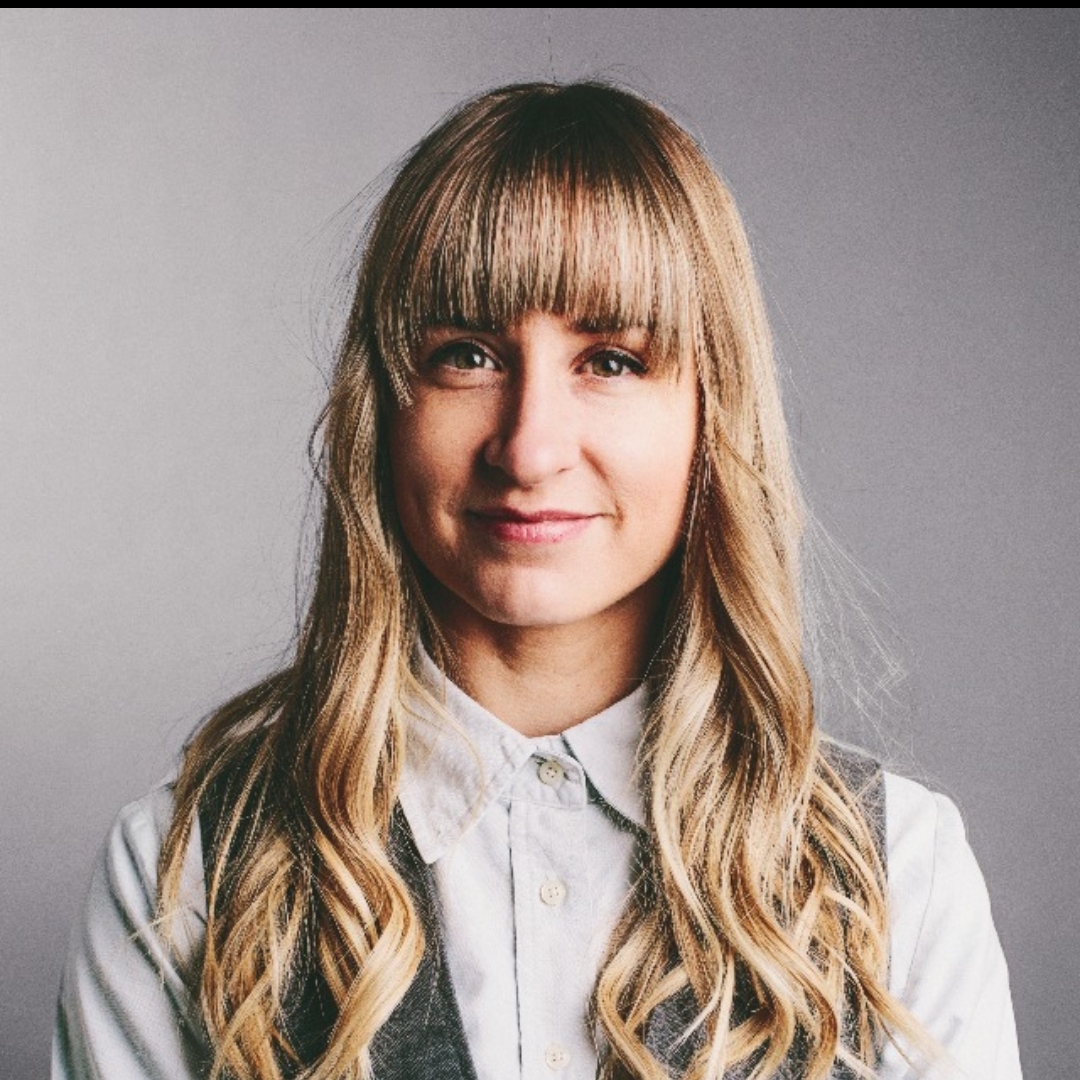
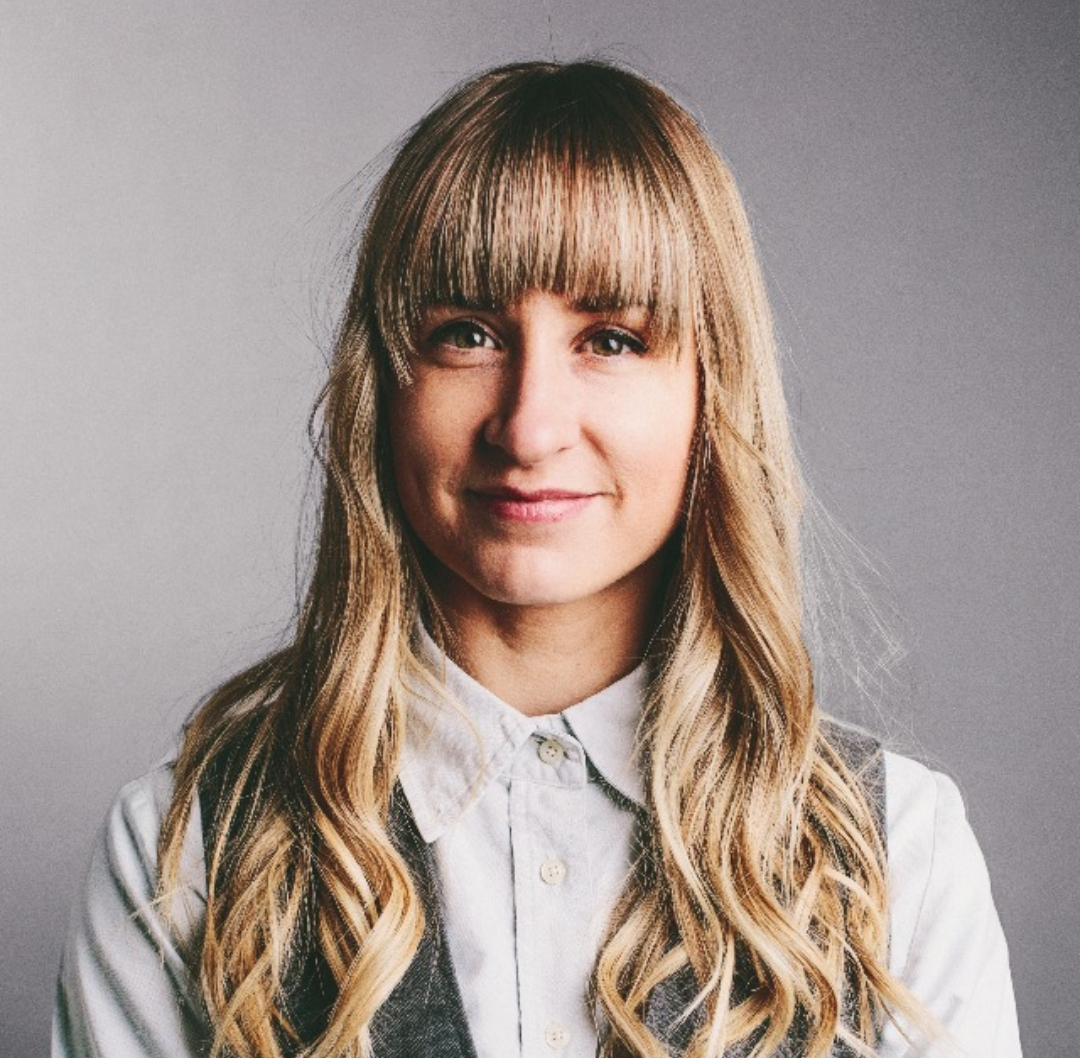
commit updated files

diff --git a/htmlFiles/mentor.html b/htmlFiles/mentor.html
@@ -70,7 +70,7 @@
   </div>
 </div>
       <p>
-        <button> <a href="#"> Contact</a></button>
+        <button> <a class="contact-btn" href="#"> Contact</a></button>
       </p>
     </div>
 
@@ -113,7 +113,7 @@
   </div>
 </div>
         <p>
-        <button> <a href="#"> Contact</a></button>
+        <button> <a class="contact-btn"  href="#"> Contact</a></button>
       </p>
     </div>
 
@@ -124,8 +124,8 @@
       <p>THE CODING GROUND</p>
       <div class="media-container"  style="margin: 24px 0;">
            <a href="#"><img class="media" src="../icons/linkedin-in-brands.svg" alt=""></a>
-        <a href="#"><img class="media" src="../icons/at-solid.svg" alt=""></a>
-        <a href="#"><img class="media" src="../icons/twitter-brands.svg" alt=""></i></a>
+        <a href="mailto: jason@thecodingground.com"><img class="media" src="../icons/at-solid.svg" alt=""></a>
+       
         
       </div>
       <br>
@@ -153,7 +153,7 @@
 </div>
       
      <p>
-        <button> <a href="#"> Contact</a></button>
+        <button> <a class="contact-btn"  href="#"> Contact</a></button>
       </p>
     </div>
 
@@ -164,8 +164,8 @@
       <p>THE CODING GROUND</p>
       <div class="media-container"  style="margin: 24px 0;">
             <a href="https://www.linkedin.com/in/moral-jera-8742a9188/"><img class="media" src="../icons/linkedin-in-brands.svg" alt=""></a>
-       <a href = "mailto: maral@thecodingground.com"><img class="media" src="../icons/at-solid.svg" alt=""></a>
-        <a href="#"><img class="media" src="../icons/twitter-brands.svg" alt=""></i></a>
+       <a href = "mailto: moral@thecodingground.com"><img class="media" src="../icons/at-solid.svg" alt=""></a>
+       
         
       </div>
       <br>
@@ -189,7 +189,7 @@
   </div>
 </div>
       <p>
-        <button> <a href="#"> Contact</a></button>
+        <button> <a class="contact-btn"  href="#"> Contact</a></button>
       </p>
     </div>
          <div class="card">
@@ -198,9 +198,9 @@
       <p class="title">MENTOR</p>
       <p>THE CODING GROUND</p>
       <div class="media-container"  style="margin: 24px 0;">
-            <a href="#"><img class="media" src="../icons/linkedin-in-brands.svg" alt=""></a>
+          
         <a href = "mailto: tanille@thecodingground.com"><img class="media" src="../icons/at-solid.svg" alt=""></a>
-        <a href=""><img class="media" src="../icons/twitter-brands.svg" alt=""></i></a>
+      
         
       </div>
       <br>
@@ -226,7 +226,7 @@
 </div>
 
 <p>
-  <button> <a href="#"> Contact</a></button>
+  <button> <a class="contact-btn"  href="#"> Contact</a></button>
 </p>
 </div>
 </div>

diff --git a/css/mentors.css b/css/mentors.css
@@ -2,8 +2,8 @@
 display: grid;
 grid-template-columns: 2fr 2fr 2fr;
 padding: 10rem;
-gap: 5rem
-
+gap: 5rem;
+padding-left: 3rem;
 
 }
 
@@ -19,7 +19,7 @@ gap: 5rem
 
 .title {
   color: grey;
-  font-size: 18px;
+  font-size: 20px;
 }
 
 button {
@@ -27,12 +27,12 @@ button {
   outline: 0;
   display: inline-block;
   padding: 8px;
-  color: white;
-  background-color: #000;
+  color:black;
+  background-color:#2a7e5f;
   text-align: center;
   cursor: pointer;
   width: 100%;
-  font-size: 18px;
+  font-size: 18x;
 }
 
 a {
@@ -40,13 +40,17 @@ a {
   font-size: 22px;
   color: black;
 }
+.contact-btn{
+color: black;
+}
 
 button:hover, a:hover {
   opacity: 0.7;
 }
 
 .mentor-img{
-  width:100% !important;
+  height: 350px !important;
+
 }
 
 .mentor-imgMoral{
@@ -65,3 +69,8 @@ filter: gray;
 .media{
     width: 20px;
 }
+ h1 {
+   font-size: 26px!important;
+   background-color:  #2a7e5f;;
+ }
+
